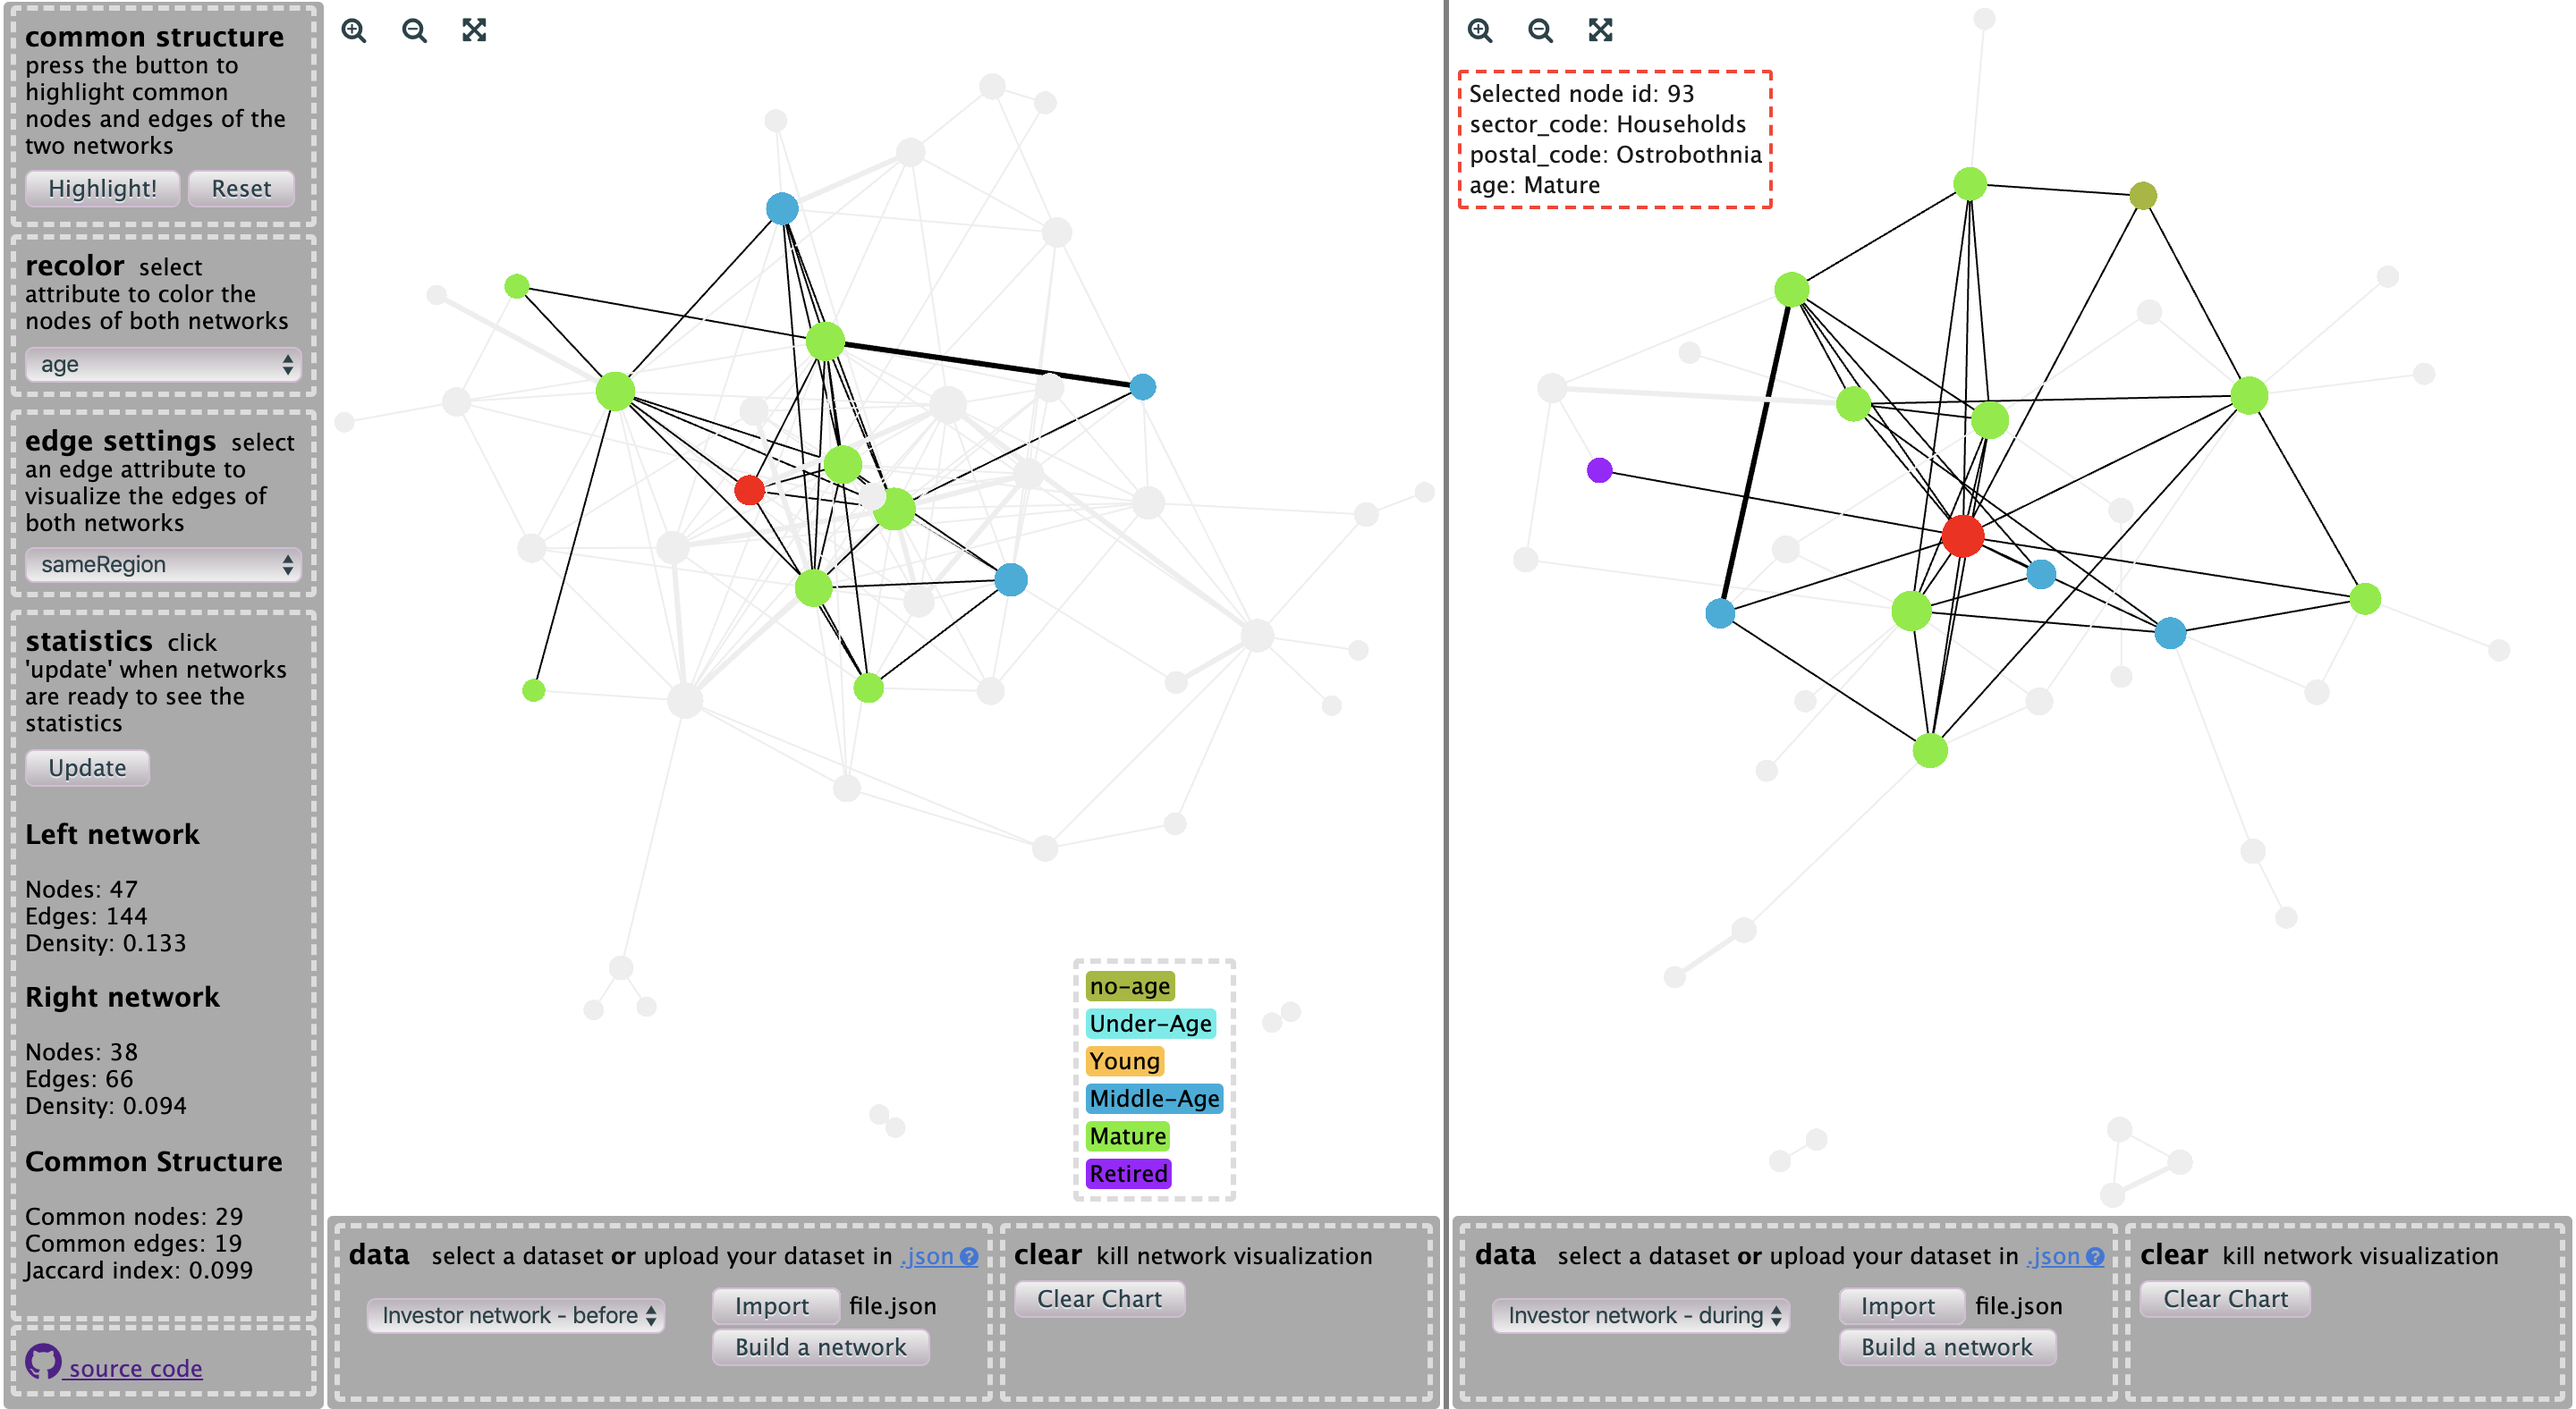
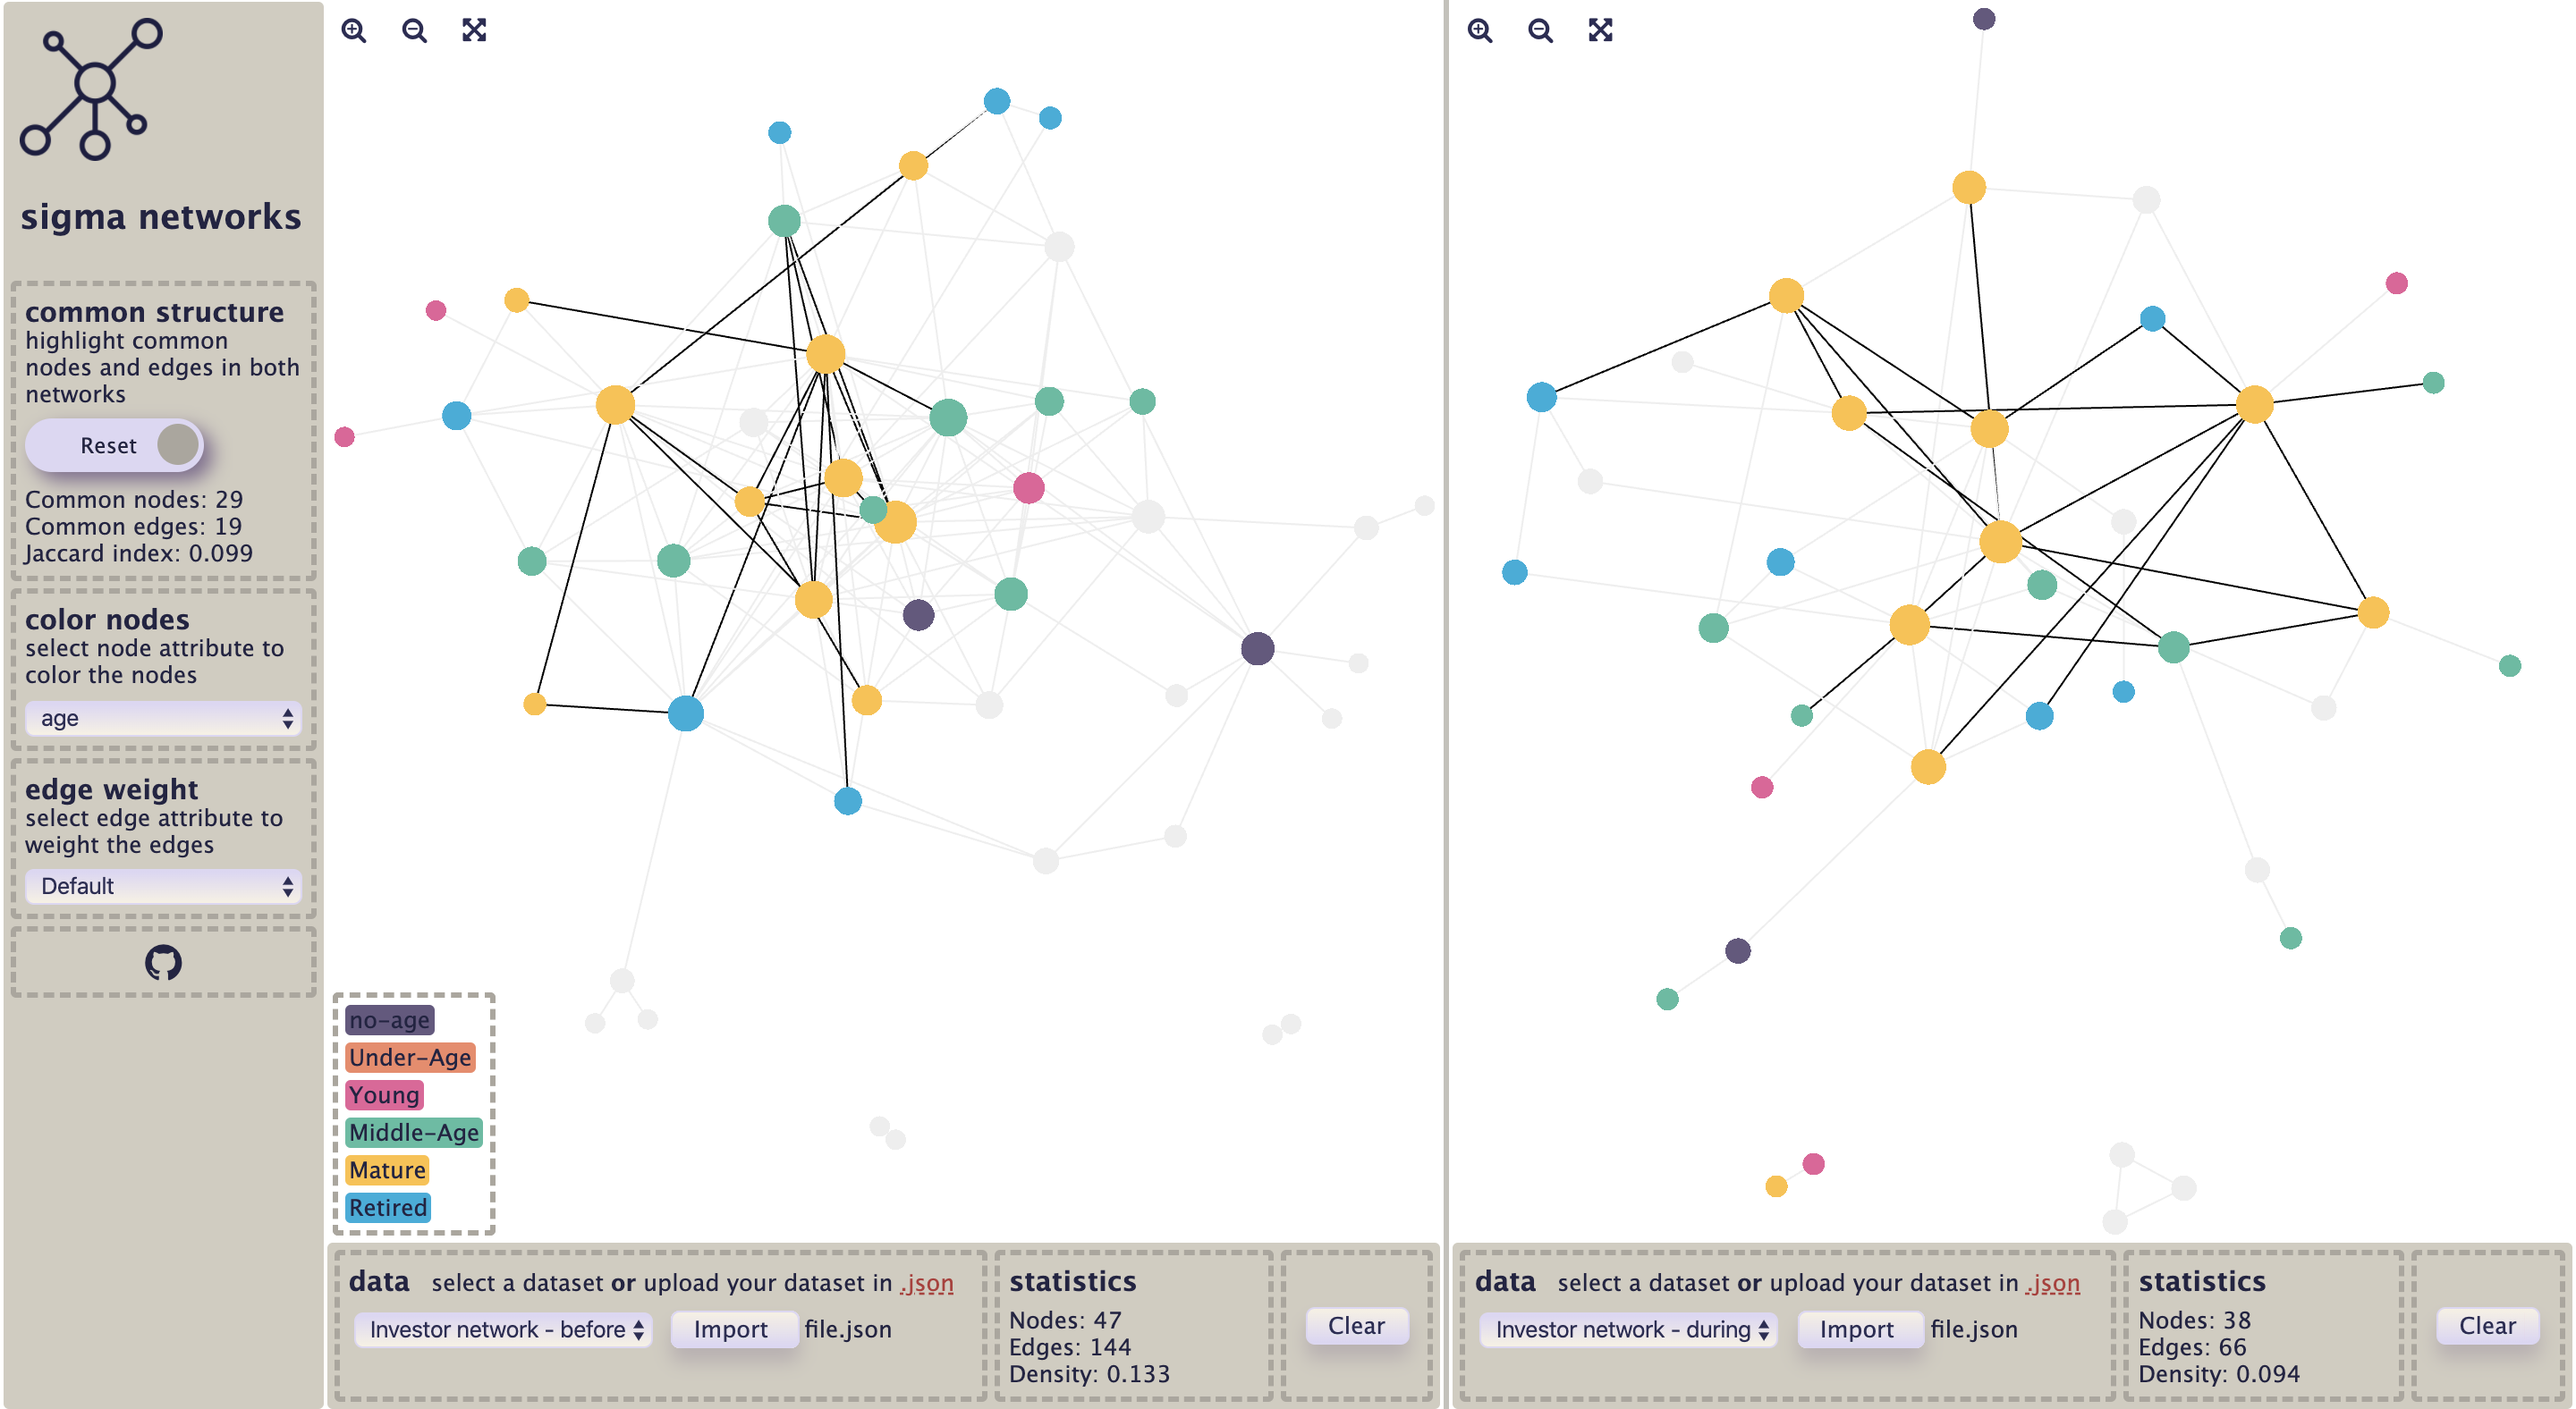
readme and preview update

diff --git a/README.md b/README.md
@@ -12,17 +12,17 @@ You can try and see how it works with the datasets we have in the selection: *In
 2. Select a dataset on the left and right side or upload your datasets in .json format. To use your dataset:
    - See the [.json template](https://github.com/schatt89/sigmaNetworks/blob/master/public/data/template.json) 
    - See the [`.ipynb` notebook](https://github.com/schatt89/sigmaNetworks/blob/master/transform_data/convert_graphml_to_json.ipynb) to learn how to convert your data to the desired .json format
-   - Import file and then click `Build a network` button
+   - Click `Import` button to upload your file
 3. Select a node attribute to color the nodes and place the legend by dragging it
 4. Select an edge attribute to add weight to the edges
-5. Update statistics if you need them
+5. See statistics
 6. Highlight the common links and nodes to see the underlying structure of the networks 
 
 Some features:
 - Hover over a node to see its attributes
 - Double click on a node will display its attributes in an infobox and highlight its first-order neighbors in both networks
 - Click on an infobox to close it
-- `Reset` button will cancel any highlight
-- `Clear Chart` button will remove the network
+- `Reset` will cancel any highlight
+- `Clear` button will remove the network
 - You can change the size of the left and right side by dragging the separating bar
 - Use navigation icons to zoom in and out 
